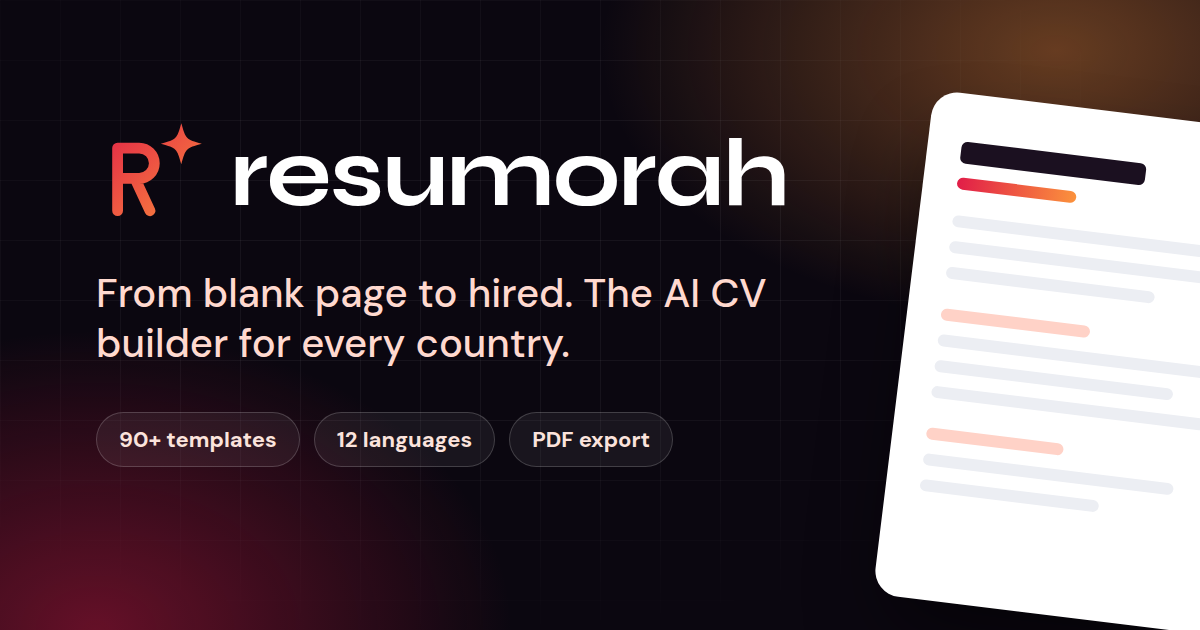
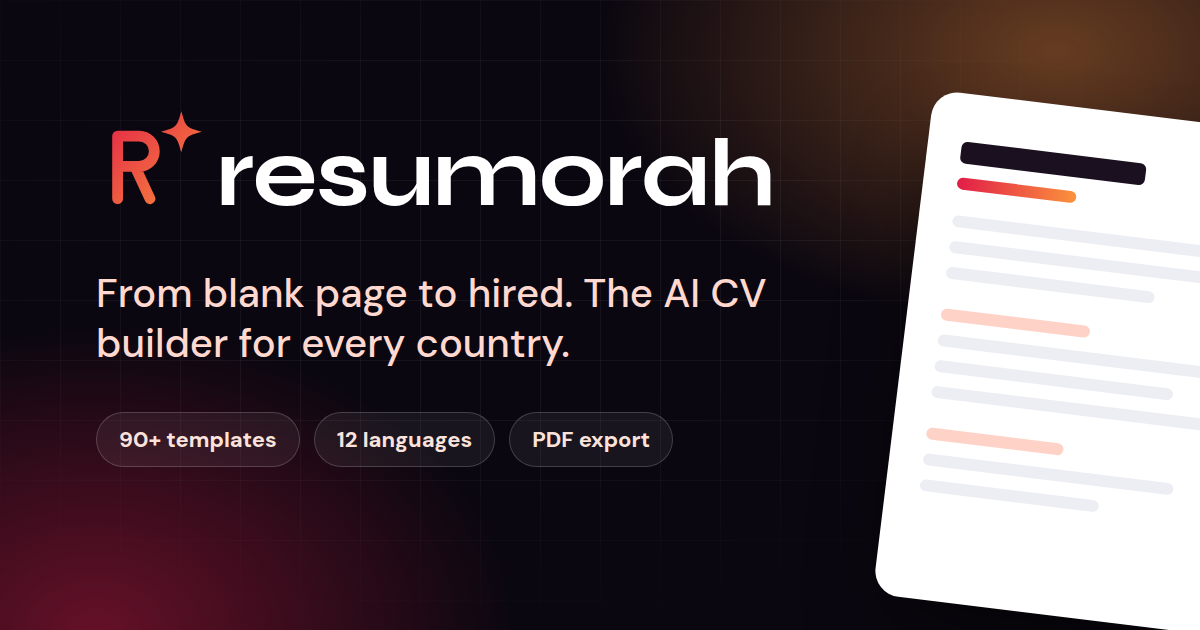
Rebrand audit round 2: aligned social image, sized tile, fitted 404 mark
- Open Graph/Twitter lockup: R lifted onto the wordmark baseline, gap closed
- LogoMark tile honours its size class (cn() doesn't merge conflicts)
- 'fitted' mark for standalone use (404 hero is optically centred)
- Logos on light surfaces use a deeper tangerine end for 3:1 contrast
- LTR lockup pulls the word in under the spark; the wordmark keeps its
  tracking in Arabic and Chinese

Claude-Session: https://claude.ai/code/session_01Cxjp2Q4ibxDbgXTPfCaN9N

Changed region(s): [[0.185, 0.2111, 0.6783, 0.3317], [0.0925, 0.181, 0.185, 0.3619]]

diff --git a/components/ui/logo.tsx b/components/ui/logo.tsx
@@ -9,6 +9,7 @@ export const BRAND_MARK_PATH = "M20 84V26H40a14 14 0 0 1 0 28H20M36 54L50 84";
 export const BRAND_SPARK_PATH =
   "M79 3C83.18 17.82 83.18 17.82 98 22C83.18 26.18 83.18 26.18 79 41C74.82 26.18 74.82 26.18 60 22C74.82 17.82 74.82 17.82 79 3Z";
 const BRAND_GRADIENT_ID = "resumorah-brand-gradient";
+const BRAND_GRADIENT_ON_LIGHT_ID = "resumorah-brand-gradient-on-light";
 
 /**
  * Shared gradient for every logo on the page. Rendered once in the root layout:
@@ -25,6 +26,11 @@ export function BrandDefs() {
           <stop offset="0" stopColor="#e11d48" />
           <stop offset="1" stopColor="#fb923c" />
         </linearGradient>
+        {/* On light surfaces the tangerine end is deepened to keep 3:1 contrast. */}
+        <linearGradient id={BRAND_GRADIENT_ON_LIGHT_ID} gradientUnits="userSpaceOnUse" x1="0" y1="0" x2="100" y2="100">
+          <stop offset="0" stopColor="#e11d48" />
+          <stop offset="1" stopColor="#ea580c" />
+        </linearGradient>
       </defs>
     </svg>
   );
@@ -34,16 +40,25 @@ type LogoMarkProps = {
   className?: string;
   /** `stroke`: the bare gradient mark. `tile`: white mark on a gradient app-icon tile. */
   variant?: "stroke" | "tile";
+  /**
+   * Fit the box to the ink (R + spark) for a mark shown on its own, e.g.
+   * centred above text. The default box keeps the R on the lockup baseline.
+   */
+  fitted?: boolean;
+  /** The mark sits on a light surface (deeper gradient end for contrast). */
+  onLight?: boolean;
 };
 
-export function LogoMark({ className, variant = "stroke" }: LogoMarkProps) {
+export function LogoMark({ className, variant = "stroke", fitted = false, onLight = false }: LogoMarkProps) {
+  const gradient = `url(#${onLight ? BRAND_GRADIENT_ON_LIGHT_ID : BRAND_GRADIENT_ID})`;
   if (variant === "tile") {
     return (
       <span
         aria-hidden="true"
         className={cn(
-          "inline-flex size-8 shrink-0 items-center justify-center rounded-[0.6rem] shadow-[0_1px_0_rgb(255_255_255/0.3)_inset,0_6px_14px_-5px_rgb(225_29_72/0.55)]",
-          className,
+          "inline-flex shrink-0 items-center justify-center rounded-[0.6rem] shadow-[0_1px_0_rgb(255_255_255/0.3)_inset,0_6px_14px_-5px_rgb(225_29_72/0.55)]",
+          // cn() does not merge conflicting classes, so the default size only applies without one.
+          className ?? "size-8",
         )}
         style={{ backgroundImage: "linear-gradient(135deg, #e11d48, #fb923c)" }}
       >
@@ -65,18 +80,18 @@ export function LogoMark({ className, variant = "stroke" }: LogoMarkProps) {
   return (
     <svg
       aria-hidden="true"
-      viewBox="0 0 100 100"
+      viewBox={fitted ? "10 0 92 92" : "0 0 100 100"}
       fill="none"
       className={cn("shrink-0", className ?? "size-8")}
     >
       <path
         d={BRAND_MARK_PATH}
-        stroke={`url(#${BRAND_GRADIENT_ID})`}
+        stroke={gradient}
         strokeWidth="10"
         strokeLinecap="round"
         strokeLinejoin="round"
       />
-      <path d={BRAND_SPARK_PATH} fill={`url(#${BRAND_GRADIENT_ID})`} />
+      <path d={BRAND_SPARK_PATH} fill={gradient} />
     </svg>
   );
 }
@@ -104,12 +119,16 @@ export function Logo({ className, tone = "dark", showWordmark = true }: LogoProp
     >
       {/* Lifted so the R's foot sits on the wordmark's baseline (the spark
           raises the mark's ink box above the letters). */}
-      <LogoMark className={cn("size-[1.3em]", showWordmark && "-translate-y-[0.2em]")} />
+      <LogoMark
+        onLight={tone === "dark"}
+        className={cn("size-[1.3em]", showWordmark && "-translate-y-[0.2em]")}
+      />
       {showWordmark ? (
         <span
           data-logo-word=""
           className={cn(
-            "whitespace-nowrap lowercase tracking-[-0.02em]",
+            // In LTR the spark sits over empty space after the R; pull the word in.
+            "whitespace-nowrap lowercase tracking-[-0.02em] ltr:-ms-[0.08em]",
             tone === "light" ? "text-white" : "text-slate-950",
           )}
         >

diff --git a/app/not-found.tsx b/app/not-found.tsx
@@ -24,7 +24,7 @@ export default async function NotFound() {
         <PreferencesMenu tone="dark" />
       </div>
 
-      <LogoMark className="size-14 opacity-90" />
+      <LogoMark fitted className="size-14 opacity-90" />
       <p className="mt-6 font-brand text-7xl font-bold tracking-tight text-white sm:text-8xl">404</p>
       <h1 className="mt-4 text-2xl font-bold tracking-tight sm:text-3xl">{t.notFound.title}</h1>
       <p className="mt-3 max-w-md text-base text-slate-300">{t.notFound.body}</p>

diff --git a/app/globals.css b/app/globals.css
@@ -96,7 +96,7 @@ button:not(:disabled),
 
 /* Latin display tracking is too tight for Arabic and CJK scripts. The CV paper
    (a .scheme-light island with its own lang) follows the CV language instead. */
-html:is([lang="ar"], [lang="zh"]) [class*="tracking-["]:not(.scheme-light[lang] *) {
+html:is([lang="ar"], [lang="zh"]) [class*="tracking-["]:not(.scheme-light[lang] *, [data-logo-word]) {
   letter-spacing: 0;
 }
 
